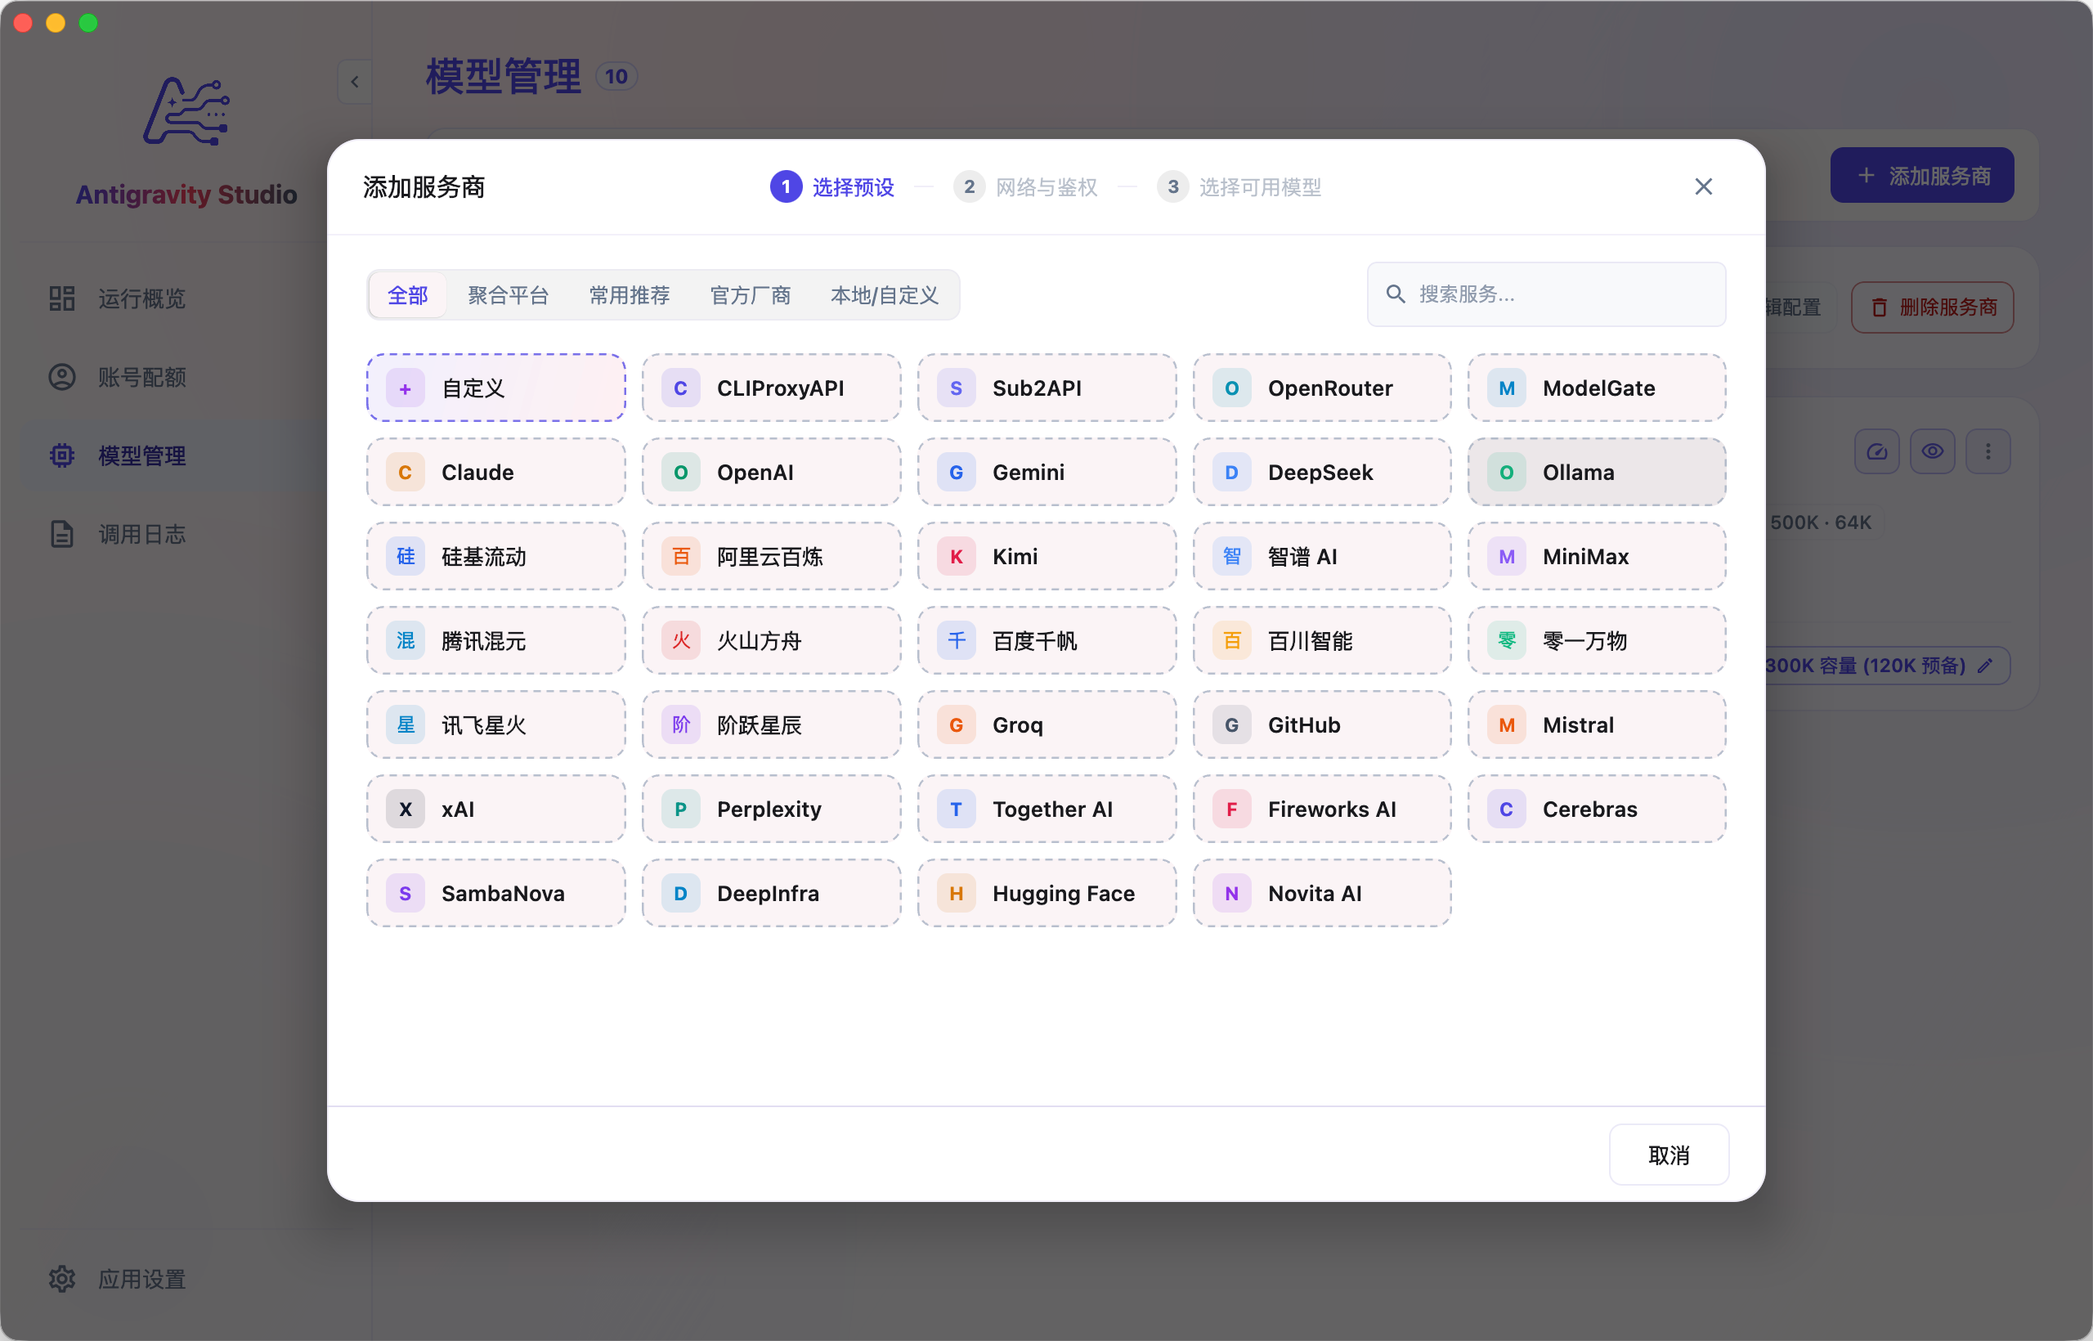
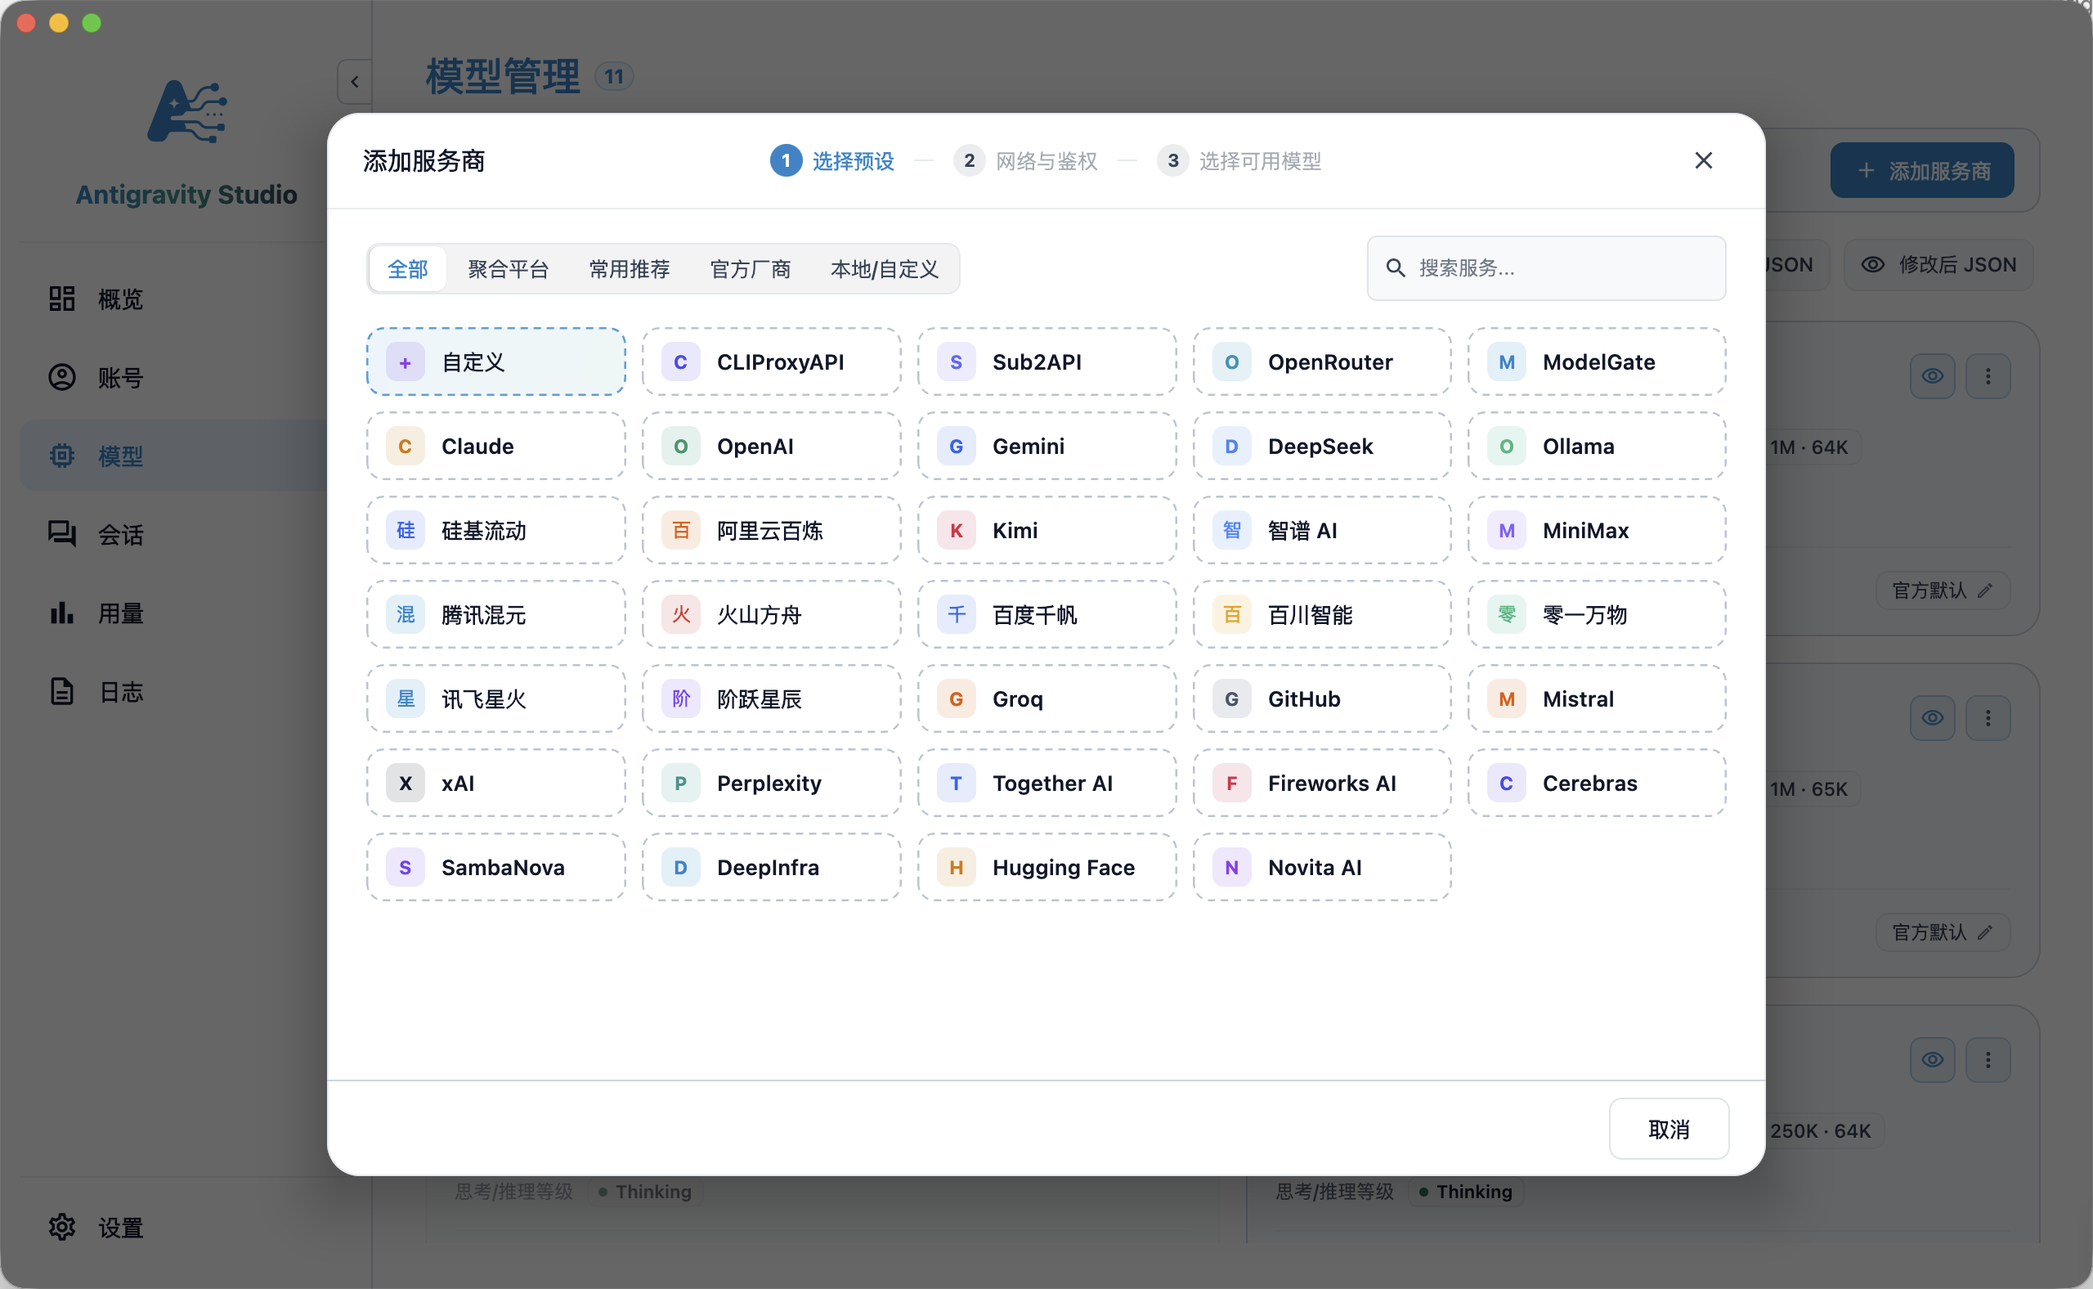
docs: 同步最新版界面截图与会话管理等功能文档

diff --git a/README.md b/README.md
@@ -30,6 +30,7 @@
 3. **想用第三方模型与思考模型**：官方自带模型种类有限，手头的 Claude、DeepSeek（含完整 Thinking 思维链）、GPT 或本地 Ollama 无法直接在 Antigravity 中调用。
 4. **长对话关键代码被过早总结**：官方默认的上下文压缩阈值偏低，多轮对话后容易丢失关键实现细节与上下文信息。
 5. **模型下拉列表冗长**：列表里堆满大量不常用的官方模型，找想用的模型费时费力。
+6. **多端会话轨迹离散，历史回溯困难**：在 IDE、桌面独立 App 与终端 CLI 之间穿插工作，对话记录分散在各端；默认标题千篇一律，无法一眼辨识任务内容，难以检索与归档。
 
 ---
 
@@ -39,80 +40,84 @@
 统一管理多个 Google 账号，由本地代理层自动接管流量并按策略调度：
 
 - **三大调度策略**：
-  - **智能接力 (Failover Relay)**：单号优先。平时直接使用当前主账号；当主号剩余配额低于换号阈值（默认 5%）或者遭遇 429 限流、403 异常时，代理在后台自动挑选最优备用号接棒，避免请求中断。主账号配额恢复且冷却期满后，自动切回主号服务。调用 Claude 时若主号受限，会自动挑选支持 Claude 的备用号接力。
+  - **智能接力 (Failover Relay) ★**：单号优先。平时优先使用当前主账号；当主号剩余配额低于换号阈值（默认 20%）或者遭遇 429 限流、403 异常时，代理在后台自动挑选最优备用号接棒，避免请求中断。主账号配额恢复且冷却期满后，自动切回主号服务。调用 Claude 时若主号受限，会自动挑选支持 Claude 的备用号接力。
   - **会话隔离 (Sticky Session)**：为每个会话分配专属账号并长效绑定，同会话所有后续请求固定走同一账号，最大化利用官方服务端的 Prompt Cache 降低延迟；账号充足时优先独占绑定，账号紧张时在占用最少的账号间平摊；子任务与子代理（Subagent）自动继承父会话账号，不重复占坑；后台辅助任务（如标题提炼）不占用独立绑定。
   - **负载均衡 (Round Robin)**：请求在健康账号之间平滑轮询分发，均匀分担并发流量，避免单号过早限流；遇到限流快速向后漂移转移；子代理同样跟随父会话分配的账号。
 - **临期冲刺与配额最大化利用 (Use-it-or-lose-it)**：
-  - **动态紧迫度评分**：官方配额到期会自动刷新，未用完的额度直接作废。系统按 `紧迫度 = 剩余配额 ÷ 距离重置时间` 动态打分，优先调度距离重置最近、剩余额度充裕的账号，抢在刷新前把临期配额消耗殆尽；周配额临期时享有最高优先级。
-  - **模型族配额严格隔离**：Gemini 与 Claude 模型族独立分池与核算，杜绝跨模型族配额挤占。
-  - **自适应退守保底**：支持自定义换号阈值（默认 5%，可选 3%~20%），低于门槛的账号自动避让；当全池所有账号均低于门槛时，门槛自适应失效，自动调用全池剩余微量额度保底服务，直到有账号刷新回血。
+  - **动态紧迫度评分**：官方配额到期会自动刷新，未用完的额度直接作废。系统按 `紧迫度 = 剩余配额 ÷ 距离重置时间` 动态打分（界面直观呈现分值），优先调度距离重置最近、剩余额度充裕的账号，抢在刷新前把临期配额消耗殆尽；周配额临期时享有最高优先级。
+  - **模型族配额严格隔离**：Gemini 与 Claude 模型族独立分池与核算，双窗口独立环形进度（5小时滚动配额 + 周配额）及重置倒计时直观可视，杜绝跨模型族配额挤占。
+  - **自适应退守保底**：支持自定义换号阈值（默认 20%，支持灵活调整），低于门槛的账号自动避让；当全池所有账号均低于门槛时，门槛自适应失效，自动调用全池剩余微量额度保底服务，直到有账号刷新回血。
 - **单账号独立出网代理**：支持为每个账号独立配置 HTTP / SOCKS5 代理节点，在 Token 刷新、配额轮询与请求转发中按账号派发独立连接池，实现不同账号在网络环境与 IP 维度的物理隔离。
 - **账号池总配额大盘与状态感知**：
   - 汇总各模型族可用余量、总点数与健康账号数；
   - 实时检测并展示各账号 Claude 模型支持状态（稳定可用、未测试、已限流、受限）；
-  - 异常账号卡片红色边框高亮，支持悬浮查看原始报错与处理指引；
-  - 正在服务的账号卡片置顶并带有流光动效，清晰标注待命顺位（待命备用、待命次选）；
+  - 正在服务的账号卡片高亮标注（如“接力中”、“App & CLI”），清晰展示接力与待命状态；
   - 系统托盘（macOS/Windows）悬浮实时显示当前接力状态、出口账号与主号映射关系。
-- **一键切换主号**：支持浏览器一键登录或粘贴 Refresh Token 录入多个 Google 账号；点击即可切换 Antigravity IDE、独立 App、CLI 或 VS Code 的激活账号，联动热重启。
+- **一键切换主号**：支持浏览器一键登录或粘贴 Refresh Token 录入多个 Google 账号；点击即可勾选切换 Antigravity IDE、独立 App、CLI 与 VS Code 扩展的生效账号，并联动安全重启生效。
 
 ![账号配额管理](img/zh/account_quota.png)
+![账号池调度设置](img/zh/account_pool_relay.png)
 ![一键切换账号](img/zh/account_switch.png)
 
-### 2. 自带 Key 接入任意模型 (BYOK)
-- **主流服务商与自定义端点**：内置 OpenAI、Anthropic、Gemini、DeepSeek、xAI、本地 Ollama，以及各类兼容 OpenAI 格式的第三方中转网关。
-- **思维链与复杂工具兼容**：无损解析 DeepSeek 的 `reasoning_text` 流式增量与非流式思考链；支持多模态图片输入与代码工具调用 (Tools)；针对跨协议 Tool Call ID 自动配对，未匹配项自动降级转文本，防止上游 400 校验报错。
-- **一键拉取与注入**：填入 Key 后拉取模型列表，勾选即可直接加入 Antigravity 的模型下拉菜单。
-- **纯本地直连**：请求直接从本机发送至你配置的服务商端点，不经过任何第三方中间服务器。
+### 2. 自带 Key 接入任意模型 (BYOK) 与能力调优
+- **丰富的服务商预设**：内置 34+ 主流平台与聚合中转预设（OpenAI、Anthropic、Gemini、DeepSeek、Ollama、OpenRouter、Sub2API、CLIProxyAPI、硅基流动、阿里云百炼、Kimi、智谱 AI 等），支持 3 步向导极速接入。
+- **思维链与复杂工具兼容**：无损解析 DeepSeek 等模型的 `reasoning_text` 流式增量与非流式思考链；支持多模态图片输入与代码工具调用 (Tools)；针对跨协议 Tool Call ID 自动配对，未匹配项自动降级转文本，防止上游 400 校验报错。
+- **模型特性与上下文窗口灵活定制**：直接在卡片上查看多模态、工具调用、思考/推理等级（High / Medium / Low / Thinking）标签；支持为模型单独定制上下文窗口配置（如 512K、1M 或官方默认），推迟总结触发时机，避免长对话丢失代码细节。
+- **纯本地直连与调试**：填入 Key 后支持一键测试连接并拉取模型列表；支持查看原始 JSON 与修改后 JSON；请求直接从本机发送至你配置的服务商端点，不经过任何第三方中间服务器。
 
-![模型管理](img/zh/model_management.png)
-![服务商预设](img/zh/provider_presets.png)
-![模型选择与能力配置](img/zh/provider_models_select.png)
+![模型管理与上下文定制](img/zh/model_management.png)
+![服务商预设矩阵](img/zh/provider_presets.png)
 
-### 3. 一键代理接管与直连恢复
-- **多宿主状态感知**：自动识别本机 Antigravity IDE、App、CLI 以及 VS Code 扩展的运行状态与版本信息。
-- **一键进程治理**：支持在界面上一键强杀运行中的宿主实例与整棵子进程树。
-- **安全可逆**：点击「接入代理」开启接管，点击「恢复官方直连」即可还原，不修改任何官方安装包与二进制文件。
+### 3. 跨端智能体会话管理与 AI 智能起名
+- **全生态会话统一归集**：集中索引并浏览来自 Antigravity 2.0（独立桌面端）、Antigravity IDE、Antigravity CLI 及 VS Code 插件的全部智能体会话与交互轨迹。
+- **多维过滤与工程检索**：支持按工程项目、客户端来源过滤，支持搜索标题、会话 ID 或关键字；清晰展示会话交互步数（如 136 步）与数据体积（如 11.1 MB）。
+- **AI 会话智能起名 (AI Renaming)**：支持手动重命名，更可一键召唤 AI（如 Gemini 3.8 Flash）阅读整场对话的上下文，自动总结并生成凝练精准的任务标题。
+- **快捷交互与操作**：支持一键在 Finder / 资源管理器中打开工程目录、复制会话 ID、在独立窗口重温会话，或安全清理废弃历史。
 
-### 4. 隐藏不常用模型 & 上下文窗口容量定制
-- **精简模型列表**：在界面上一键勾选隐藏不常用的官方模型，保持 IDE 下拉菜单清爽。
-- **上下文容量与压缩策略**：支持官方模型原生压缩策略（`CASCADE_USE_EXPERIMENT_CHECKPOINTER`）；自定义模型自动按 50% 物理容量与 54% 压缩预备线派生策略；提供 128K、200K、256K、372K、1M 等多档阈值，推迟总结触发时机，避免长对话丢代码细节。
+![跨端会话统一管理](img/zh/session_management.png)
+![AI 对话深度阅读与自动起名](img/zh/session_rename_ai.png)
 
-![定制长记忆上下文策略](img/zh/context_strategy.png)
+### 4. 一键代理接管与多宿主状态感知
+- **多宿主状态感知**：自动识别本机 Antigravity 2.0、Antigravity IDE、Antigravity CLI 以及 VS Code 插件的安装路径、版本号与当前运行状态。
+- **独立代理模式开关**：无需繁琐的命令行配置，在概览页面一键拨动各客户端的代理开关，即开即用；CLI 提供一键复制接入启动命令。
+- **进程安全治理**：支持在界面上一键刷新状态、关闭或安全重启宿主实例；随时可一键还原为官方直连，不修改任何官方安装包与二进制文件。
 
-### 5. 调用日志审计与端到端性能度量
+### 5. 系统健康诊断与故障自愈 (Doctor)
+- **全链路健康巡检**：一键检测本地代理服务监听状态、Google 官方 Cloud Code 服务连通性与网络时延、第三方模型服务商鉴权与可用模型状态。
+- **宿主接入诊断与一键修复**：智能识别各 Antigravity 宿主应用是否已接入代理；对于直连官方的应用提供「一键接入」引导，秒级自愈。
+
+![系统健康诊断](img/zh/health_doctor.png)
+
+### 6. Token 用量统计与消耗大盘
+- **多维度用量分析**：支持按今天、1天、7天、14天、30天及自定义日期范围，统计总 Token 消耗、API 调用次数、预估总花费（美元及人民币折算）。
+- **精准吞吐拆解**：清晰区分普通输入 Token、内容生成输出、思考/推理 Token，以及服务端 Prompt 缓存命中率与读取量（如 92.3% 缓存率）。
+- **平滑趋势分析**：可视化呈现每日 Token 消耗走势波形图与峰值点，助你轻松掌握模型使用规律。
+
+![用量统计大盘](img/zh/usage_statistics.png)
+
+### 7. 调用日志审计与端到端性能度量
 - **单调时钟性能度量**：基于单调时钟计算真实的端到端吞吐 (E2E TPS)、首字延迟 (TTFT)、排队耗时与单 Token 生成速度 (TPOT)。
 - **双栏常驻详情与 cURL 调试**：宽屏下支持右侧常驻并排展示请求详情与指标流；支持一键复制格式化且带转义的终端 cURL 命令。
 - **Agent 任务全感知**：识别上下文压缩、终端检测、标题生成、BYOK 工具调用等任务类型并打上专属标签，自动补齐思考 Token 统计。
 - **本地持久化与冷热分层**：基于 AndroidX Room KMP 与 SQLite 本地引擎存储日志，冷热分层分页加载；数据完全保存在本机，支持自定义 1 至 30 天保留期或一键清空。
 
-![调用日志明细](img/zh/activity_logs.png)
-![模型速度与耗时统计](img/zh/logs_model_speed_stats.png)
-
-### 6. Token 用量统计与消耗大盘
-- **多维度用量分析**：支持按今天、1天、7天、14天、30天及自定义日期范围，统计总 Token、输入/输出用量、Prompt 缓存命中率及预估节省费用。
-- **每日消耗趋势与热门排行**：直观展示每日 Token 消耗曲线，统计各模型的调用次数与 Token 占比。
-
-![用量统计](img/zh/usage_statistics.png)
-
-### 7. 一键体检与故障自愈 (Doctor)
-- 连接异常或配置失效时，点击「健康诊断」一键体检（网络连通性、本地代理端口、配置文件完整性、宿主接入状态等），并支持一键自动修复。
-
-### 8. 偏好设置与个性化
-- **外观模式**：支持浅色、深色模式与 Material 3 主题配色。
-- **常规设置**：支持中英文界面切换、切号默认目标应用配置与版本更新检测。
+### 8. 应用偏好与个性化配置
+- **语言与外观模式**：支持简体中文 / English 界面语言无缝切换；支持浅色、深色模式及跟随系统。
+- **Material Design 3 八大主题色系**：提供「白曜极简」、「赤霞绯红」、「橙光落日」、「黄昏金珀」、「绿岚翡翠」、「青碧苍黛」、「蓝海清冽」、「紫霞晨光」精选主题配色。
+- **AI 智能起名模型定制**：支持自由指定 AI 智能提炼会话标题时优先使用的模型（如 `gemini-3.8-flash-high`）。
+- **切号与宿主路径偏好**：自定义切号时的默认目标应用预设，以及自定义各宿主应用的安装目录与可执行文件路径。
 
 ![应用偏好与配置](img/zh/settings_general.png)
-![关于 Antigravity Studio](img/zh/settings_about.png)
 
 ---
 
 ## 工作原理
 
 ```text
-Antigravity IDE / App / CLI / VS Code
+Antigravity 2.0 / IDE / CLI / VS Code
             │
             ▼ (请求发送至本地代理)
-    http://127.0.0.1:8321
+    http://127.0.0.1:8321 (默认端口)
             │
             ├─► 官方模型请求 (Gemini / Claude)
             │         │
@@ -174,10 +179,10 @@ Antigravity IDE / App / CLI / VS Code
 ### 2. 快速上手 3 步走
 
 1. **配置账号池或第三方模型**：
-   - **使用官方模型**：在「**账号配额**」中登录或导入多个 Google 账号，在「**账号池调度设置**」中按需选择策略（如“智能接力”或“会话隔离”）；
-   - **使用第三方模型**：在「**模型管理**」中添加服务商（如 DeepSeek、OpenAI、Claude），填入 API Key 并勾选想要启用的模型。
-2. **开启接管**：进入「**运行概览**」，在对应的宿主卡片（如 Antigravity IDE）上点击「**接入代理**」。
-3. **开始使用**：重新打开 Antigravity IDE，在模型选择下拉菜单中即可直接选用新模型；调用官方模型时，代理会在后台根据账号池策略自动调度。
+   - **使用官方模型**：在侧边栏进入「**账号**」页面录入或导入多个 Google 账号，开启「**账号池调度**」并按需选择策略（如“智能接力★”或“会话隔离”）；
+   - **使用第三方模型**：在「**模型**」页面点击「**添加服务商**」，从预设列表快速选择（如 DeepSeek、OpenAI、Claude、Ollama 等），填入 API Key 并勾选想要启用的模型。
+2. **开启代理接管**：进入「**概览**」页面，在对应的客户端卡片（如 Antigravity 2.0、Antigravity IDE、VS Code 插件）上直接开启「**代理模式**」开关；如使用终端 CLI，可一键复制接入启动命令。
+3. **开始使用**：重新打开或直接使用 Antigravity 宿主应用，在模型选择列表中即可选用注入的新模型；调用官方模型时，本地代理会在后台根据账号池策略全自动健康调度与智能接力。还可在「**会话**」页面统一归集与审计跨端对话轨迹。
 
 ---
 
